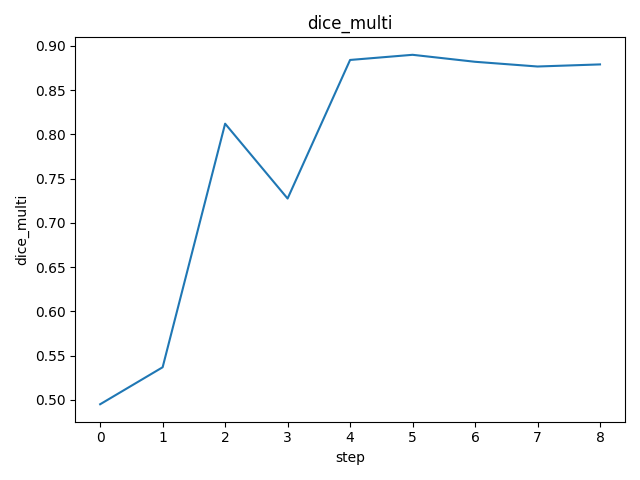
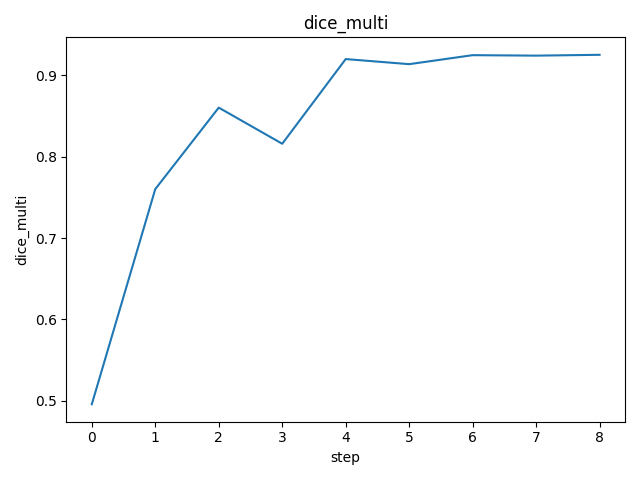
CML PR for 3c90ffd8 [skip ci]

diff --git a/results/evaluate/report.md b/results/evaluate/report.md
@@ -4,24 +4,24 @@ metrics.json
 
 |   dice_multi |
 |--------------|
-|     0.899858 |
+|     0.870303 |
 
-![REGION_1-24_0_1024_0_1024.png](plots/images/REGION_1-24_0_1024_0_1024.png)
+![REGION_1-24_1024_2048_2048_3072.png](plots/images/REGION_1-24_1024_2048_2048_3072.png)
 
-![REGION_1-24_1136_2160_1024_2048.png](plots/images/REGION_1-24_1136_2160_1024_2048.png)
+![REGION_2-4_1136_2160_2816_3840.png](plots/images/REGION_2-4_1136_2160_2816_3840.png)
 
-![REGION_3-25_1136_2160_0_1024.png](plots/images/REGION_3-25_1136_2160_0_1024.png)
+![REGION_3-8_0_1024_2816_3840.png](plots/images/REGION_3-8_0_1024_2816_3840.png)
 
-![REGION_3-8_1024_2048_2816_3840.png](plots/images/REGION_3-8_1024_2048_2816_3840.png)
+![REGION_4-12_1024_2048_0_1024.png](plots/images/REGION_4-12_1024_2048_0_1024.png)
 
-![REGION_4-12_0_1024_2816_3840.png](plots/images/REGION_4-12_0_1024_2816_3840.png)
+![REGION_4-12_1024_2048_2048_3072.png](plots/images/REGION_4-12_1024_2048_2048_3072.png)
 
-![REGION_4-12_1136_2160_2048_3072.png](plots/images/REGION_4-12_1136_2160_2048_3072.png)
+![REGION_4-22_1136_2160_2048_3072.png](plots/images/REGION_4-22_1136_2160_2048_3072.png)
 
-![REGION_5-7_1136_2160_1024_2048.png](plots/images/REGION_5-7_1136_2160_1024_2048.png)
+![REGION_6-13_0_1024_1024_2048.png](plots/images/REGION_6-13_0_1024_1024_2048.png)
 
-![REGION_7-3_0_1024_2048_3072.png](plots/images/REGION_7-3_0_1024_2048_3072.png)
+![REGION_6-20_1024_2048_1024_2048.png](plots/images/REGION_6-20_1024_2048_1024_2048.png)
 
-![REGION_8-24_0_1024_1024_2048.png](plots/images/REGION_8-24_0_1024_1024_2048.png)
+![REGION_7-3_1024_2048_0_1024.png](plots/images/REGION_7-3_1024_2048_0_1024.png)
 
-![REGION_8-24_1024_2048_2048_3072.png](plots/images/REGION_8-24_1024_2048_2048_3072.png)
+![REGION_8-24_1136_2160_1024_2048.png](plots/images/REGION_8-24_1136_2160_1024_2048.png)

diff --git a/results/train/report.md b/results/train/report.md
@@ -8,12 +8,12 @@ params.yaml
 
 metrics.json
 
-| train                          | eval                           |   dice_multi |   step |
-|--------------------------------|--------------------------------|--------------|--------|
-| {'loss': 0.027502186596393585} | {'loss': 0.022485999390482903} |     0.879127 |      8 |
+| train                         | eval                           |   dice_multi |   step |
+|-------------------------------|--------------------------------|--------------|--------|
+| {'loss': 0.03364802524447441} | {'loss': 0.018873529508709908} |     0.925311 |      8 |
 
 ![static/dice_multi](static/dice_multi.png)
 
-![static/eval/loss](static/eval/loss.png)
-
 ![static/train/loss](static/train/loss.png)
+
+![static/eval/loss](static/eval/loss.png)
